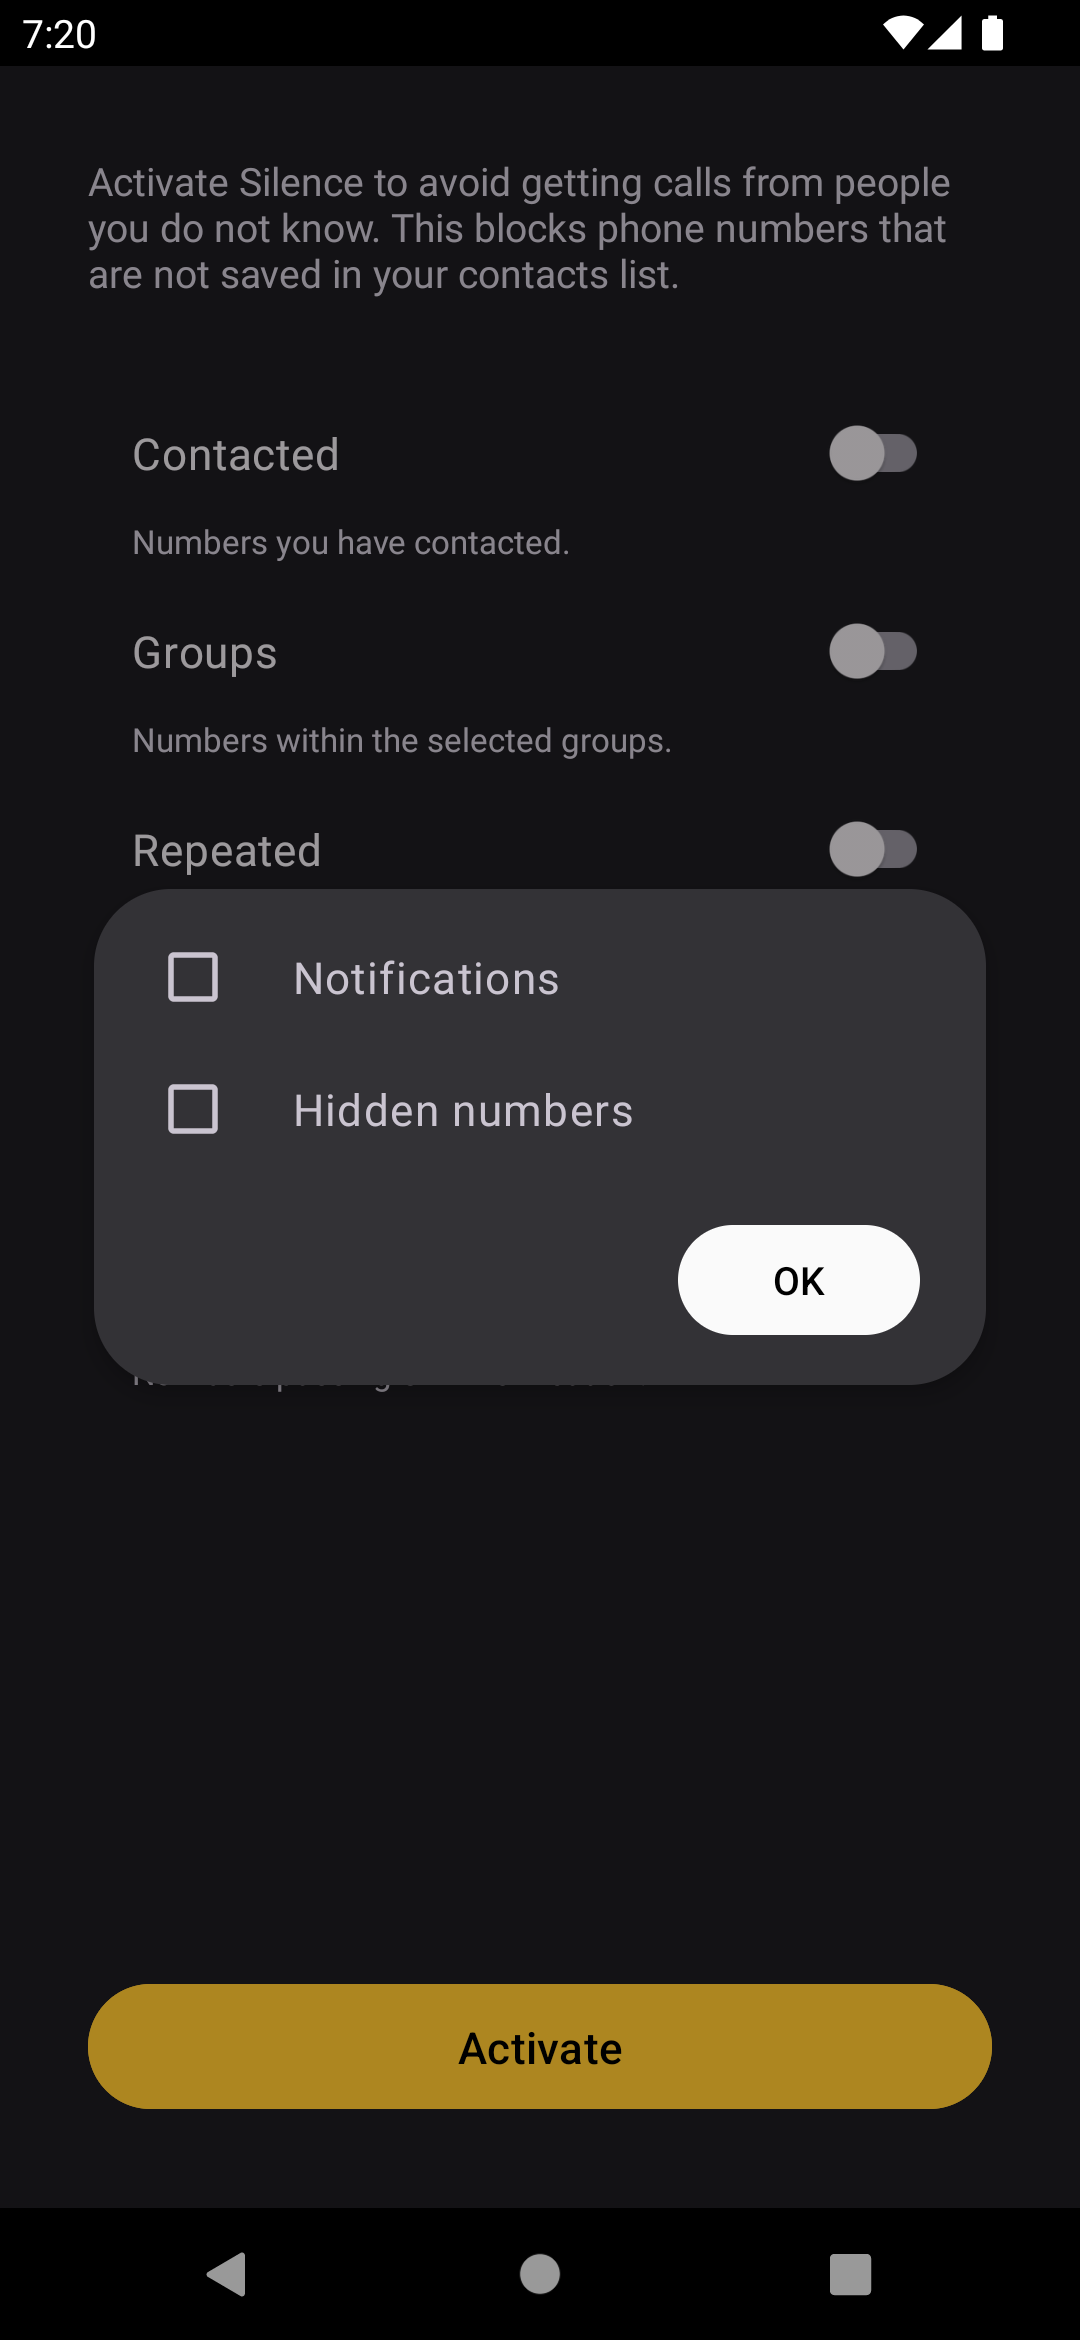
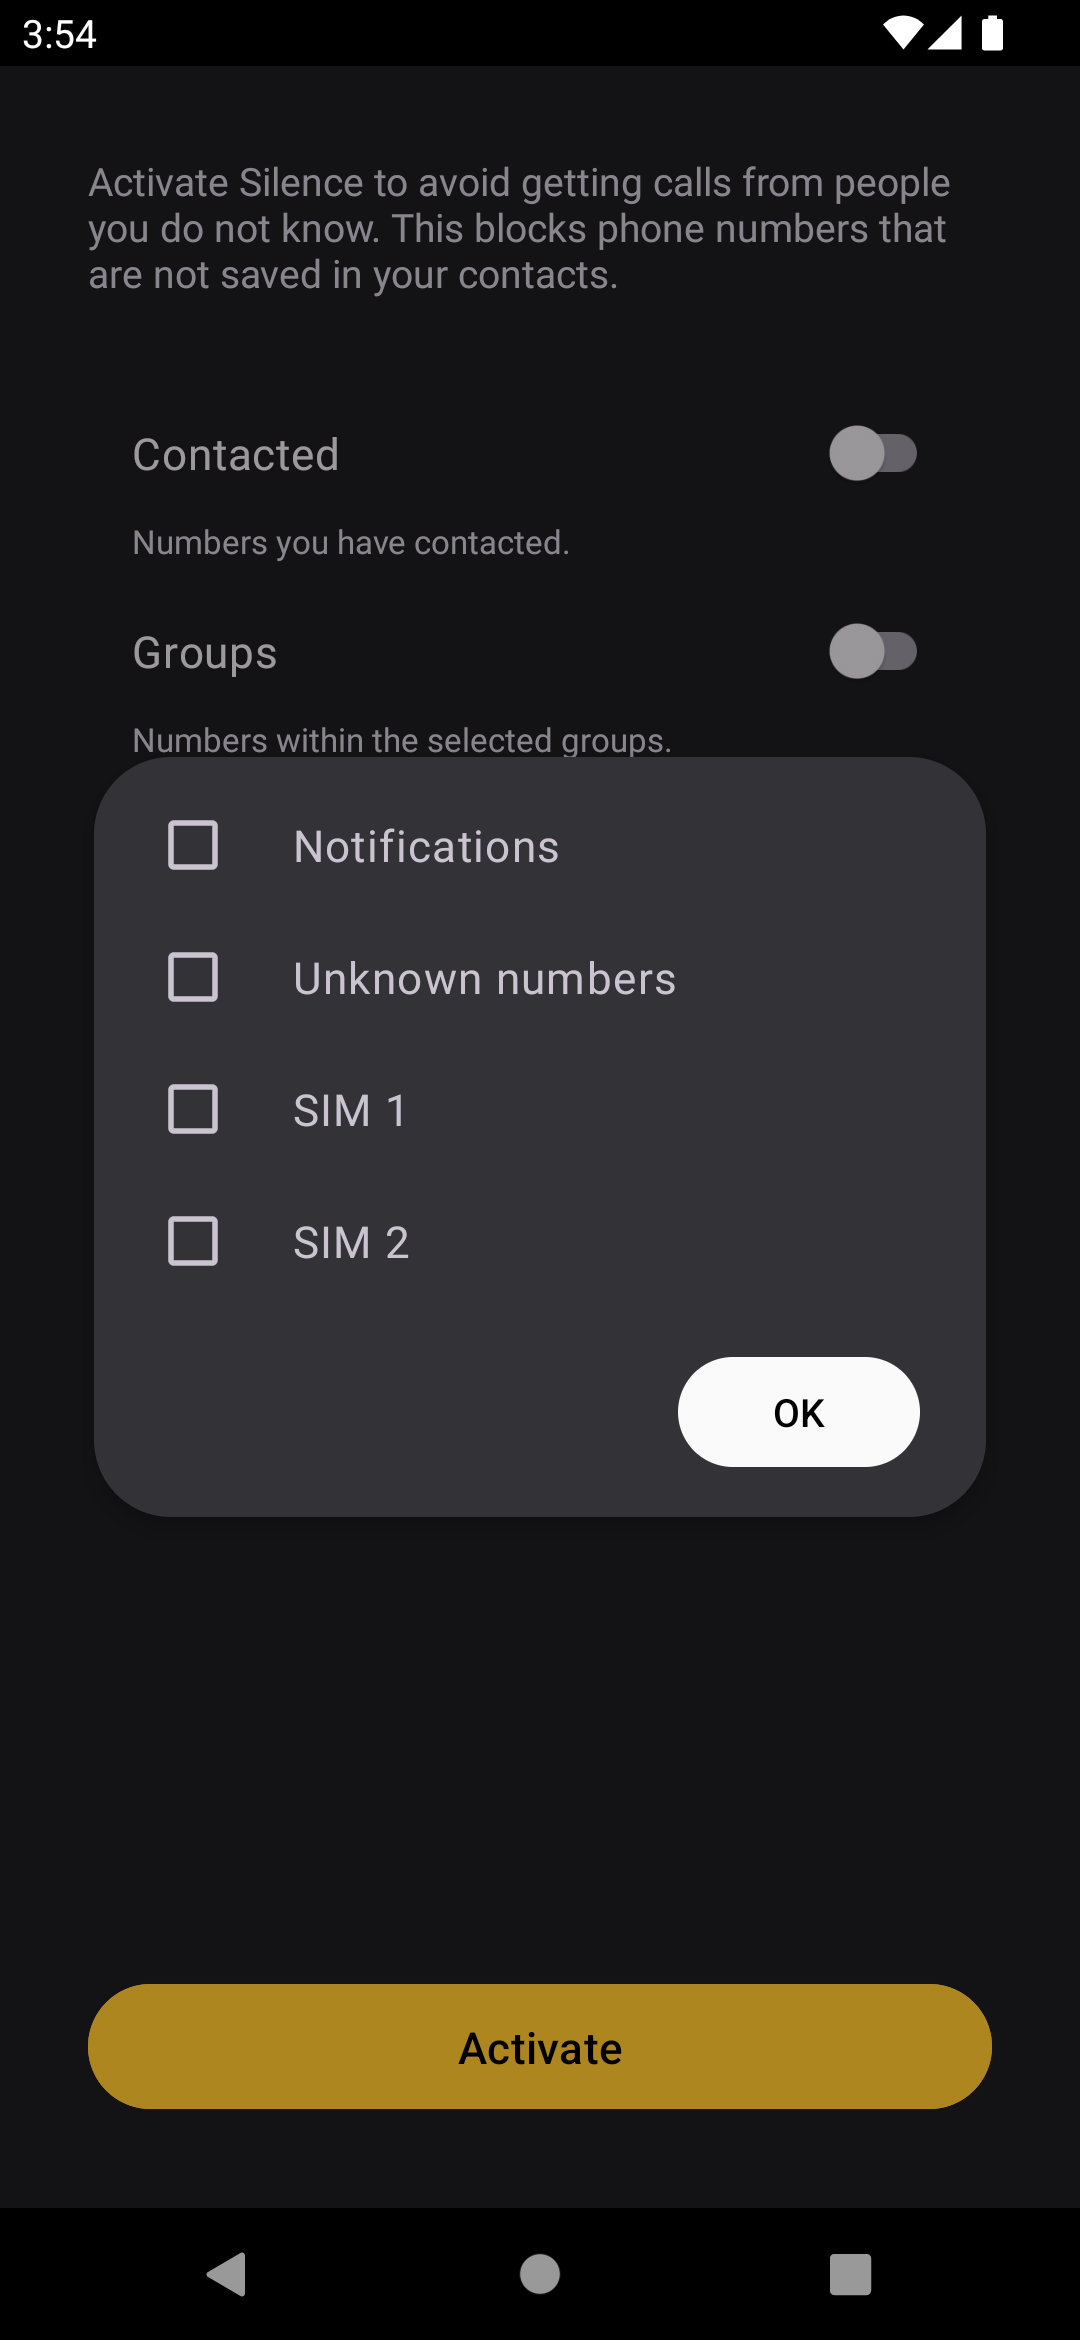
per sim bypass

diff --git a/app/src/main/java/me/lucky/silence/CallScreeningService.kt b/app/src/main/java/me/lucky/silence/CallScreeningService.kt
@@ -4,7 +4,10 @@ import android.os.Build
 import android.telecom.Call
 import android.telecom.CallScreeningService
 import android.telecom.Connection
+import android.telephony.SubscriptionManager
 import android.telephony.TelephonyManager
+import androidx.annotation.RequiresApi
+import kotlin.properties.Delegates
 
 import com.google.i18n.phonenumbers.NumberParseException
 import com.google.i18n.phonenumbers.PhoneNumberUtil
@@ -15,7 +18,9 @@ class CallScreeningService : CallScreeningService() {
     private lateinit var callScreeningHelper: CallScreeningHelper
     private lateinit var phoneNumberUtil: PhoneNumberUtil
     private val notificationManager by lazy { NotificationManager(this) }
+    private var isMultiSim by Delegates.notNull<Boolean>()
     private var telephonyManager: TelephonyManager? = null
+    private var subscriptionManager: SubscriptionManager? = null
 
     override fun onCreate() {
         super.onCreate()
@@ -26,19 +31,16 @@ class CallScreeningService : CallScreeningService() {
         prefs = Preferences(this)
         callScreeningHelper = CallScreeningHelper(this)
         phoneNumberUtil = PhoneNumberUtil.getInstance()
+        isMultiSim = Utils.getModemCount(this) >= 2
         telephonyManager = getSystemService(TelephonyManager::class.java)
+        subscriptionManager = getSystemService(SubscriptionManager::class.java)
     }
 
     override fun onScreenCall(callDetails: Call.Details) {
         if (!prefs.isServiceEnabled) {
             respondAllow(callDetails)
             return
-        } else if (
-            callDetails.hasProperty(Call.Details.PROPERTY_EMERGENCY_CALLBACK_MODE) ||
-            callDetails.hasProperty(Call.Details.PROPERTY_NETWORK_IDENTIFIED_EMERGENCY_CALL) ||
-            telephonyManager
-                ?.isEmergencyNumber(callDetails.handle?.schemeSpecificPart ?: "") == true
-        ) {
+        } else if (checkEmergency(callDetails)) {
             prefs.isServiceEnabled = false
             Utils.setSmsReceiverState(this, false)
             respondAllow(callDetails)
@@ -46,10 +48,8 @@ class CallScreeningService : CallScreeningService() {
         } else if (
             callDetails.callDirection != Call.Details.DIRECTION_INCOMING ||
             (prefs.isStirChecked && checkStir(callDetails)) ||
-            (
-                callDetails.handle?.schemeSpecificPart == null &&
-                prefs.generalFlag.and(GeneralFlag.HIDDEN_NUMBERS.value) != 0
-            )
+            checkUnknownNumber(callDetails) ||
+            checkSim()
         ) {
             respondAllow(callDetails)
             return
@@ -88,9 +88,39 @@ class CallScreeningService : CallScreeningService() {
 
     private fun checkStir(callDetails: Call.Details): Boolean {
         if (Build.VERSION.SDK_INT >= Build.VERSION_CODES.R) {
-            if (callDetails.callerNumberVerificationStatus ==
-                Connection.VERIFICATION_STATUS_PASSED) return true
+            return callDetails.callerNumberVerificationStatus ==
+                    Connection.VERIFICATION_STATUS_PASSED
         }
         return false
+    }
+
+    private fun checkEmergency(callDetails: Call.Details): Boolean {
+        return callDetails.hasProperty(Call.Details.PROPERTY_EMERGENCY_CALLBACK_MODE) ||
+            callDetails.hasProperty(Call.Details.PROPERTY_NETWORK_IDENTIFIED_EMERGENCY_CALL) ||
+            telephonyManager
+                ?.isEmergencyNumber(callDetails.handle?.schemeSpecificPart ?: "") == true
+    }
+
+    private fun checkSim(): Boolean {
+        if (Build.VERSION.SDK_INT < Build.VERSION_CODES.S || !isMultiSim) return false
+        val flag = prefs.generalFlag
+        return (flag.and(GeneralFlag.SIM_1.value) != 0 && checkSimSlot(0)) ||
+                (flag.and(GeneralFlag.SIM_2.value) != 0 && checkSimSlot(1))
+    }
+
+    @RequiresApi(Build.VERSION_CODES.S)
+    private fun checkSimSlot(slotIndex: Int): Boolean {
+        return try {
+            telephonyManager
+                ?.createForSubscriptionId(subscriptionManager
+                    ?.getActiveSubscriptionInfoForSimSlotIndex(slotIndex)
+                    ?.subscriptionId ?: return false)
+                ?.callStateForSubscription == TelephonyManager.CALL_STATE_RINGING
+        } catch (exc: SecurityException) { false }
+    }
+
+    private fun checkUnknownNumber(callDetails: Call.Details): Boolean {
+        return callDetails.handle?.schemeSpecificPart == null &&
+            prefs.generalFlag.and(GeneralFlag.UNKNOWN_NUMBERS.value) != 0
     }
 }

diff --git a/app/src/main/java/me/lucky/silence/ControlReceiver.kt b/app/src/main/java/me/lucky/silence/ControlReceiver.kt
@@ -3,13 +3,20 @@ package me.lucky.silence
 import android.content.BroadcastReceiver
 import android.content.Context
 import android.content.Intent
+import android.os.Build
 
 class ControlReceiver : BroadcastReceiver() {
     companion object {
         private const val SET_ON = "me.lucky.silence.action.SET_ON"
         private const val SET_OFF = "me.lucky.silence.action.SET_OFF"
-        private const val SET_HIDDEN_NUMBERS_ON = "me.lucky.silence.action.SET_HIDDEN_NUMBERS_ON"
-        private const val SET_HIDDEN_NUMBERS_OFF = "me.lucky.silence.action.SET_HIDDEN_NUMBERS_OFF"
+        private const val SET_UNKNOWN_NUMBERS_ON =
+            "me.lucky.silence.action.SET_UNKNOWN_NUMBERS_ON"
+        private const val SET_UNKNOWN_NUMBERS_OFF =
+            "me.lucky.silence.action.SET_UNKNOWN_NUMBERS_OFF"
+        private const val SET_SIM_1_ON = "me.lucky.silence.action.SET_SIM_1_ON"
+        private const val SET_SIM_1_OFF = "me.lucky.silence.action.SET_SIM_1_OFF"
+        private const val SET_SIM_2_ON = "me.lucky.silence.action.SET_SIM_2_ON"
+        private const val SET_SIM_2_OFF = "me.lucky.silence.action.SET_SIM_2_OFF"
     }
 
     override fun onReceive(context: Context?, intent: Intent?) {
@@ -17,8 +24,14 @@ class ControlReceiver : BroadcastReceiver() {
         when (intent.action) {
             SET_ON -> setGlobalState(context, true)
             SET_OFF -> setGlobalState(context, false)
-            SET_HIDDEN_NUMBERS_ON -> setHiddenNumbersState(context, true)
-            SET_HIDDEN_NUMBERS_OFF -> setHiddenNumbersState(context, false)
+            SET_UNKNOWN_NUMBERS_ON ->
+                setGeneralFlag(context, GeneralFlag.UNKNOWN_NUMBERS, true)
+            SET_UNKNOWN_NUMBERS_OFF ->
+                setGeneralFlag(context, GeneralFlag.UNKNOWN_NUMBERS, false)
+            SET_SIM_1_ON -> setSimState(context, GeneralFlag.SIM_1, true)
+            SET_SIM_1_OFF -> setSimState(context, GeneralFlag.SIM_1, false)
+            SET_SIM_2_ON -> setSimState(context, GeneralFlag.SIM_2, true)
+            SET_SIM_2_OFF -> setSimState(context, GeneralFlag.SIM_2, false)
         }
     }
 
@@ -29,12 +42,17 @@ class ControlReceiver : BroadcastReceiver() {
         }
     }
 
-    private fun setHiddenNumbersState(ctx: Context, state: Boolean) {
+    private fun setGeneralFlag(ctx: Context, flag: GeneralFlag, state: Boolean) {
         Preferences(ctx).apply {
             generalFlag = when (state) {
-                true -> generalFlag.or(GeneralFlag.HIDDEN_NUMBERS.value)
-                false -> generalFlag.and(GeneralFlag.HIDDEN_NUMBERS.value.inv())
+                true -> generalFlag.or(flag.value)
+                false -> generalFlag.and(flag.value.inv())
             }
         }
+    }
+
+    private fun setSimState(ctx: Context, flag: GeneralFlag, state: Boolean) {
+        if (Build.VERSION.SDK_INT >= Build.VERSION_CODES.S && Utils.getModemCount(ctx) >= 2)
+            setGeneralFlag(ctx, flag, state)
     }
 }

diff --git a/app/src/main/java/me/lucky/silence/MainActivity.kt b/app/src/main/java/me/lucky/silence/MainActivity.kt
@@ -51,6 +51,9 @@ open class MainActivity : AppCompatActivity() {
             updateMessages()
         }
 
+    private val registerForSimPermissions =
+        registerForActivityResult(ActivityResultContracts.RequestPermission()) {}
+
     override fun onCreate(savedInstanceState: Bundle?) {
         super.onCreate(savedInstanceState)
         binding = ActivityMainBinding.inflate(layoutInflater)
@@ -279,10 +282,19 @@ open class MainActivity : AppCompatActivity() {
 
     private fun showGeneralSettings() {
         var general = prefs.generalFlag
-        val flags = GeneralFlag.values()
+        val flags = GeneralFlag.values().toMutableList()
+        val strings = resources.getStringArray(R.array.general_flag).toMutableList()
+        val hasApi31 = Build.VERSION.SDK_INT >= Build.VERSION_CODES.S
+        val isMultiSim = Utils.getModemCount(this) >= 2
+        if (!hasApi31 || !isMultiSim) {
+            strings.removeAt(flags.indexOf(GeneralFlag.SIM_1))
+            flags.remove(GeneralFlag.SIM_1)
+            strings.removeAt(flags.indexOf(GeneralFlag.SIM_2))
+            flags.remove(GeneralFlag.SIM_2)
+        }
         MaterialAlertDialogBuilder(this)
             .setMultiChoiceItems(
-                resources.getStringArray(R.array.general_flag),
+                strings.toTypedArray(),
                 flags.map { general.and(it.value) != 0 }.toBooleanArray(),
             ) { _, index, isChecked ->
                 val flag = flags[index]
@@ -293,6 +305,12 @@ open class MainActivity : AppCompatActivity() {
             }
             .setPositiveButton(android.R.string.ok) { _, _ ->
                 prefs.generalFlag = general
+                if (hasApi31 && isMultiSim && (
+                    general.and(GeneralFlag.SIM_1.value) != 0 ||
+                    general.and(GeneralFlag.SIM_2.value) != 0
+                )) {
+                    requestSimPermissions()
+                }
             }
             .show()
     }
@@ -336,5 +354,9 @@ open class MainActivity : AppCompatActivity() {
 
     private fun hasMessagesPermissions(): Boolean {
         return Utils.hasPermissions(this, Manifest.permission.RECEIVE_SMS)
+    }
+
+    private fun requestSimPermissions() {
+        registerForSimPermissions.launch(Manifest.permission.READ_PHONE_STATE)
     }
 }

diff --git a/app/src/main/java/me/lucky/silence/Utils.kt b/app/src/main/java/me/lucky/silence/Utils.kt
@@ -4,6 +4,8 @@ import android.app.role.RoleManager
 import android.content.ComponentName
 import android.content.Context
 import android.content.pm.PackageManager
+import android.os.Build
+import android.telephony.TelephonyManager
 import androidx.core.content.ContextCompat
 
 class Utils {
@@ -27,6 +29,16 @@ class Utils {
             return !permissions.any {
                 ContextCompat.checkSelfPermission(ctx, it) != PackageManager.PERMISSION_GRANTED
             }
+        }
+
+        fun getModemCount(ctx: Context): Int {
+            val telephonyManager = ctx.getSystemService(TelephonyManager::class.java)
+            return if (Build.VERSION.SDK_INT >= Build.VERSION_CODES.R) {
+                telephonyManager?.supportedModemCount
+            } else {
+                @Suppress("deprecation")
+                telephonyManager?.phoneCount
+            } ?: 0
         }
     }
 }

diff --git a/app/src/main/java/me/lucky/silence/Preferences.kt b/app/src/main/java/me/lucky/silence/Preferences.kt
@@ -109,7 +109,9 @@ enum class Group(val value: Int) {
 
 enum class GeneralFlag(val value: Int) {
     NOTIFICATIONS(1),
-    HIDDEN_NUMBERS(1 shl 1),
+    UNKNOWN_NUMBERS(1 shl 1),
+    SIM_1(1 shl 2),
+    SIM_2(1 shl 3),
 }
 
 data class RepeatedSettings(val count: Int, val minutes: Int) {

diff --git a/README.md b/README.md
@@ -31,9 +31,10 @@ If the app rejects calls from contacts on Android 10, allow contacts permission 
 
 * CALL_SCREENING         - block or allow call
 * READ_CALL_LOG          - check you have called the number and count times the number have called 
-    you in T minutes
+  you in T minutes
 * READ_SMS               - check you have sent a message to the number
 * RECEIVE_SMS            - find mobile numbers in incoming messages
+* READ_PHONE_STATE       - check on which sim the number is calling
 * RECEIVE_BOOT_COMPLETED - persist cleanup inactive numbers job across reboots
 * READ_CONTACTS          - check the number exists in contacts on Android 10
 

diff --git a/PRIVACY.md b/PRIVACY.md
@@ -1,4 +1,4 @@
 # Privacy Policy
 
-The app may store some numbers in internal database for faster lookup. All the data is stored on 
-your device.
+The app may store numbers from messages in internal database for faster lookup. All the data is 
+stored on your device and deleted after 48 hours.
